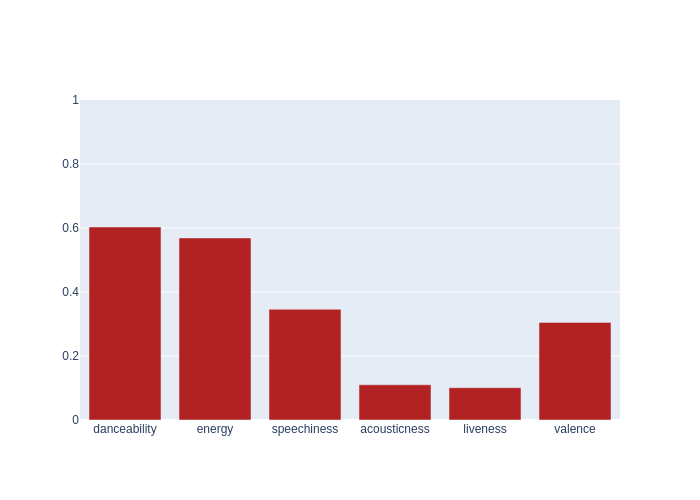
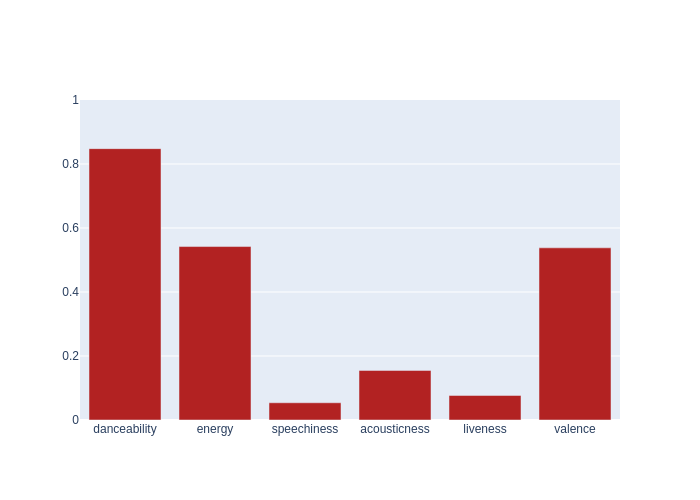
Automated README update

diff --git a/README.md b/README.md
@@ -4,7 +4,7 @@ Automated music metrics for fun, updated hourly.
 
 ## Spotify
 
-- currently listening to **Xavier Omär - SURF (feat. Masego)**
+- currently listening to **Raveena - Tweety**
 
 - **845** liked songs
 - **131** playlists
